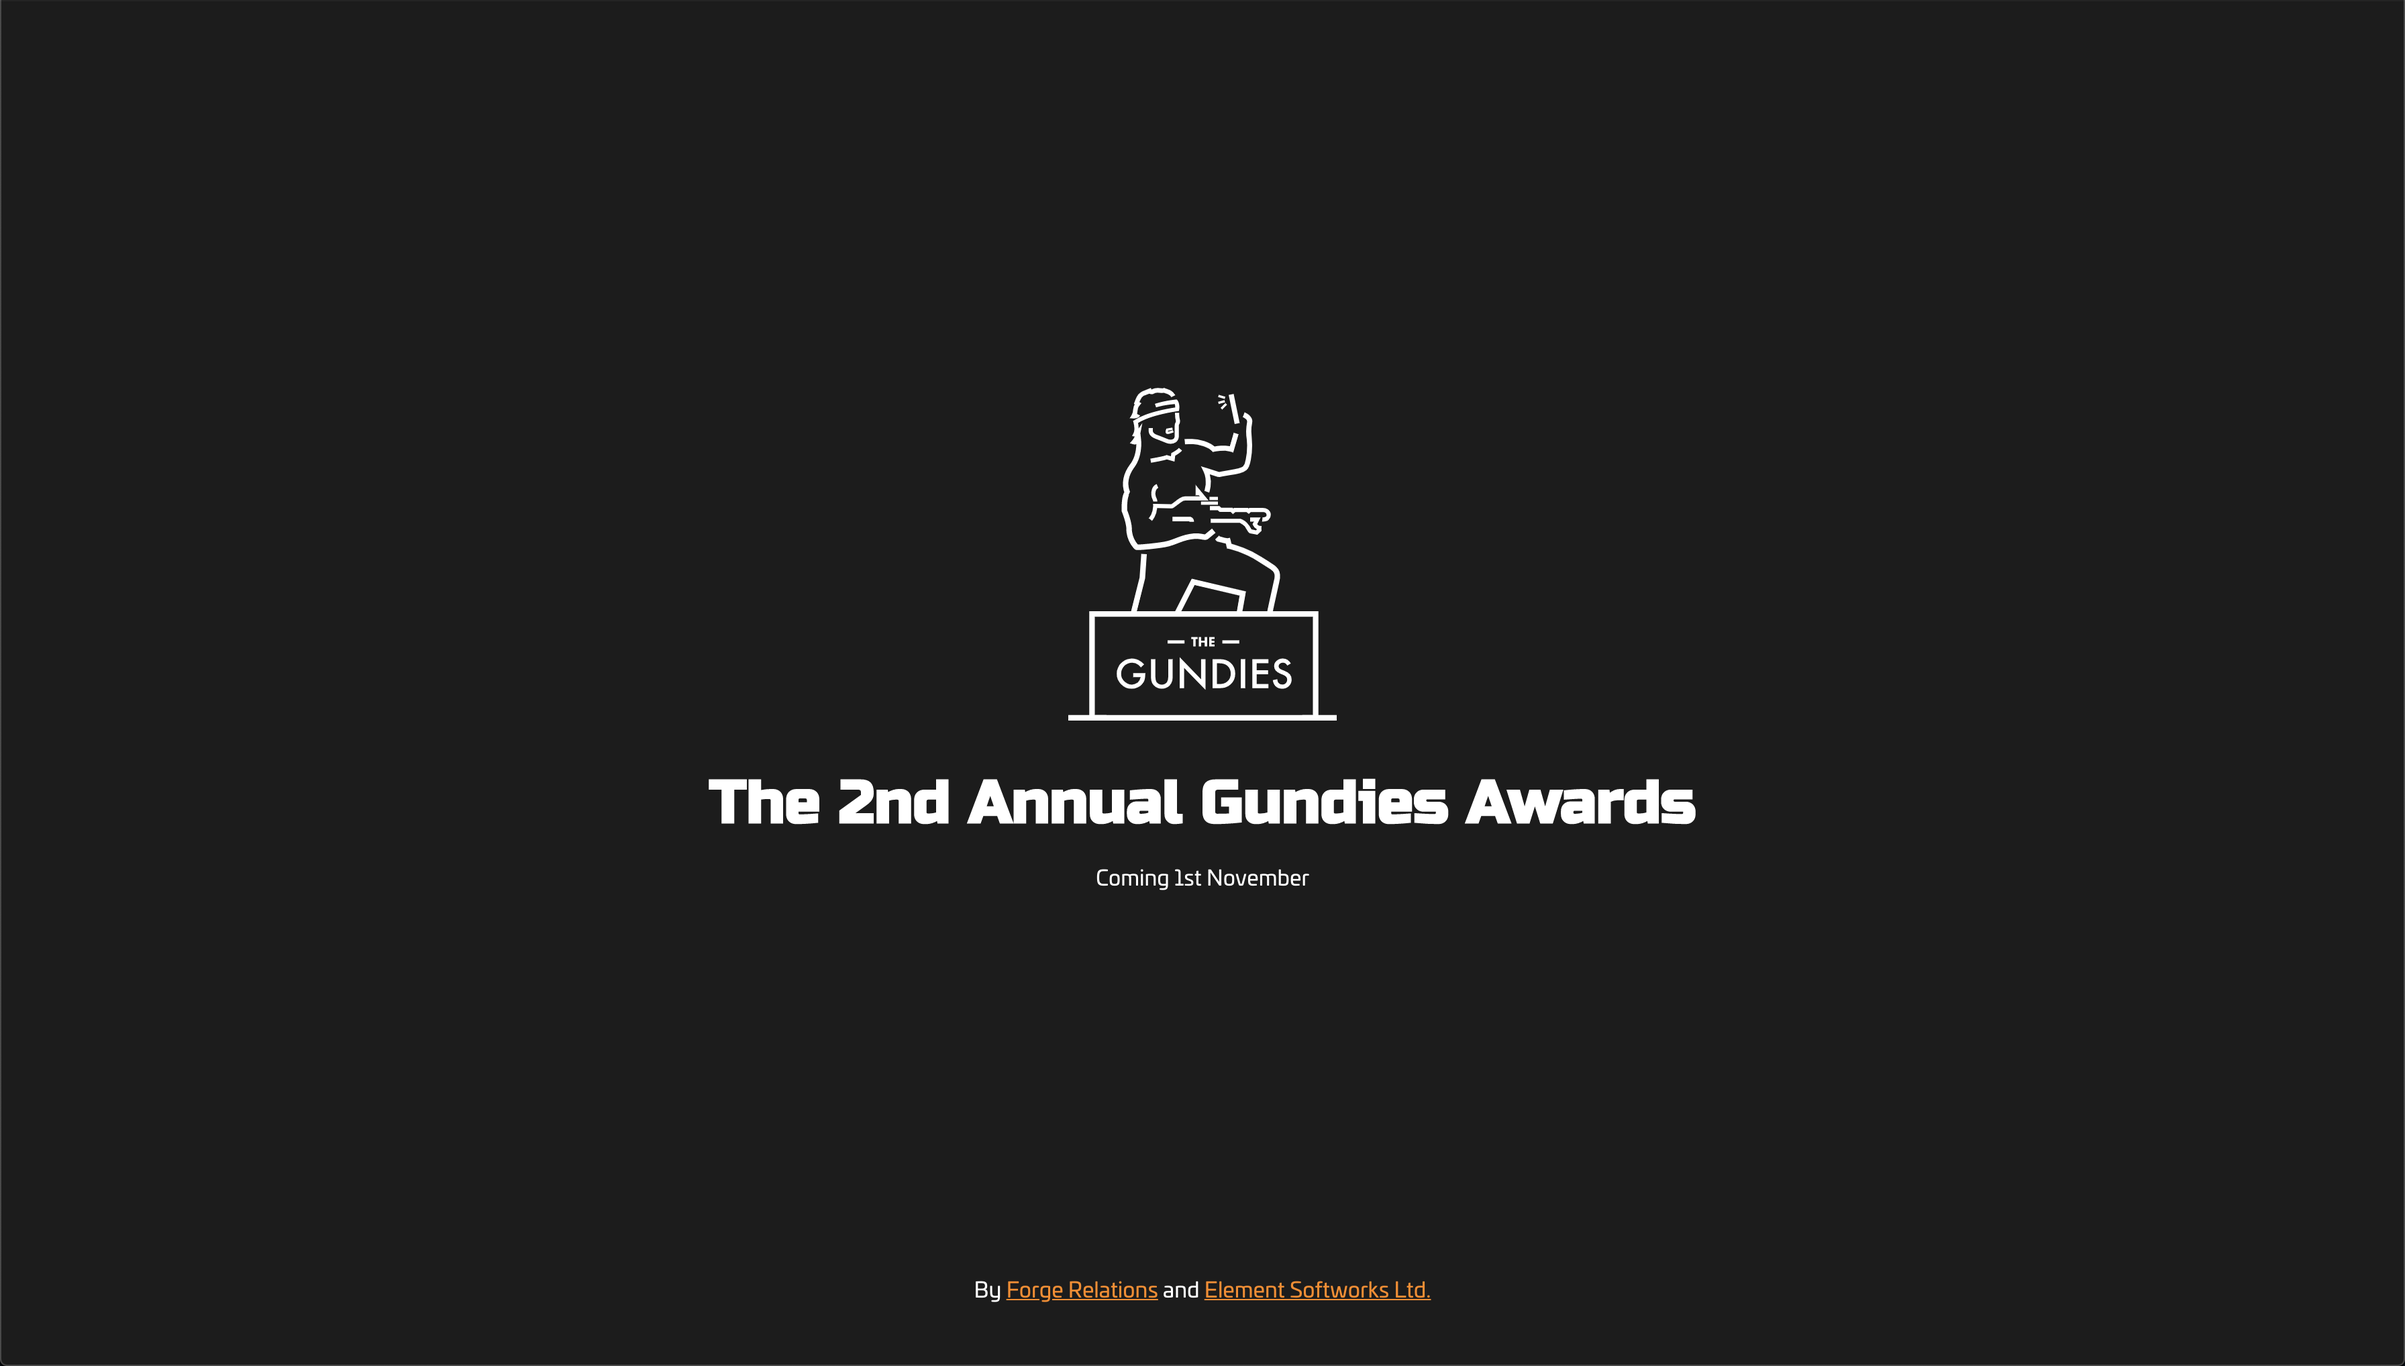
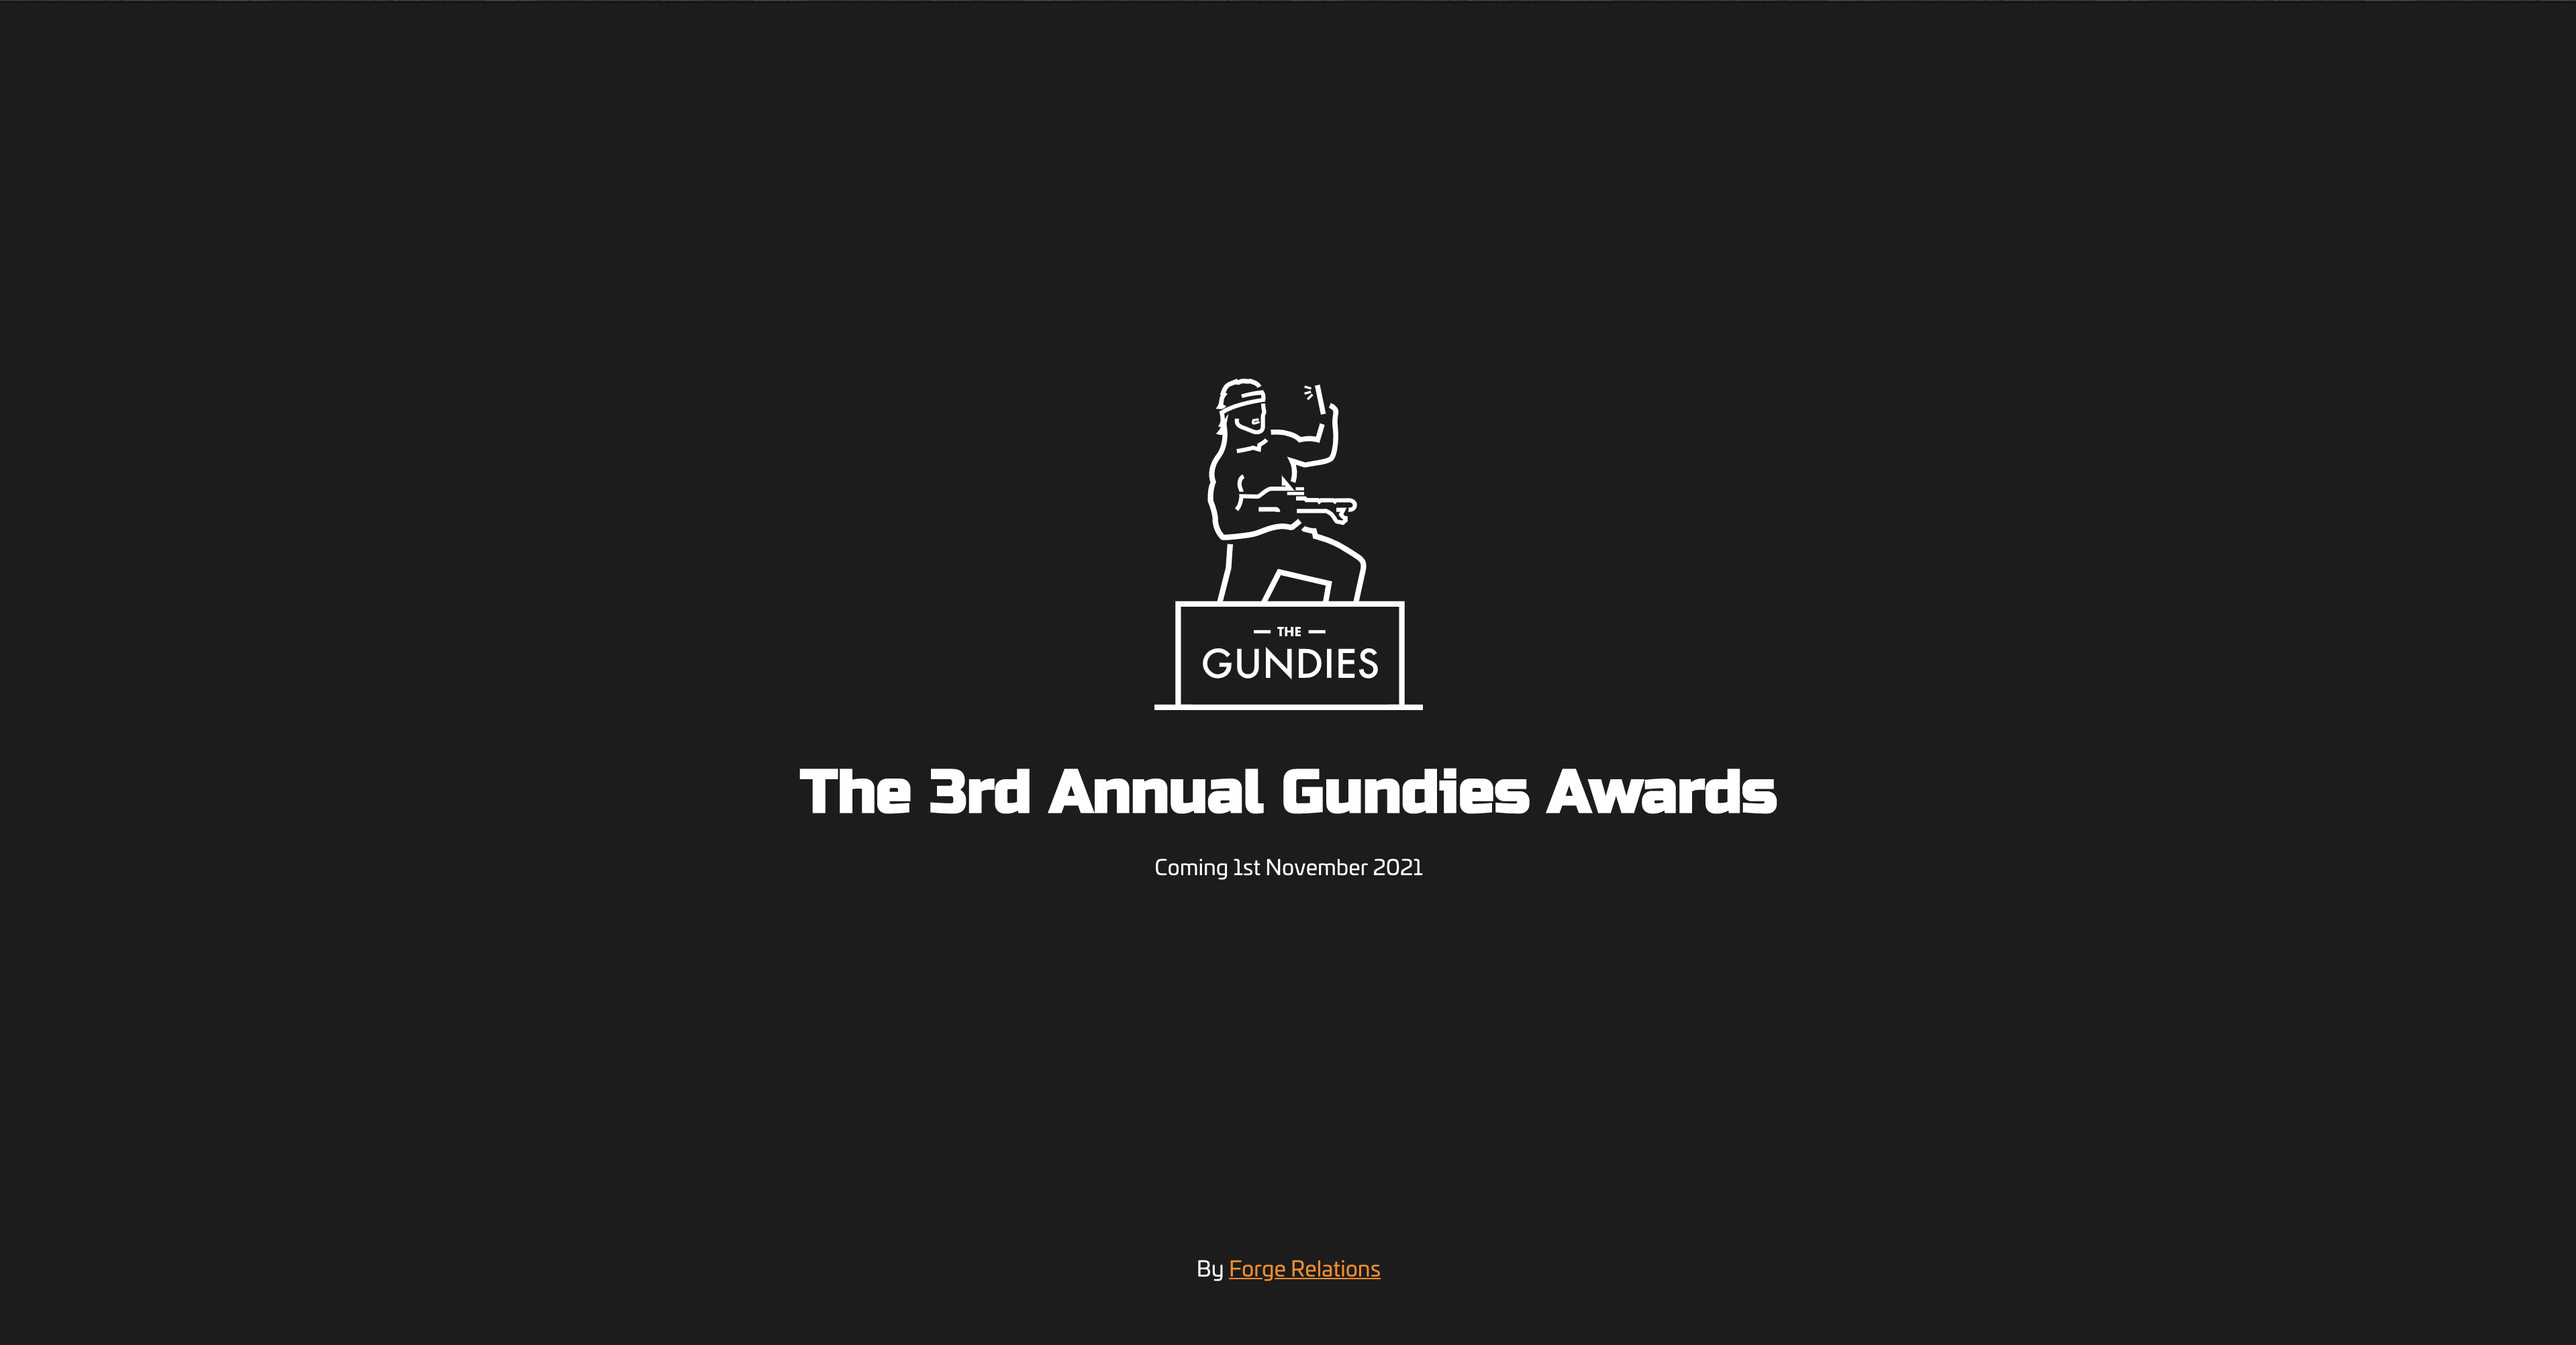
GD-385 Updated SEO preview image

diff --git a/src/pages/index.js b/src/pages/index.js
@@ -14,7 +14,7 @@ const Home = () => {
                         <div className={styles.offlineLogo}>
                             <Logo />
                         </div>
-                        <h1>The 3nd Annual Gundies Awards</h1>
+                        <h1>The 3rd Annual Gundies Awards</h1>
                         <p>Coming 1st November 2021</p>
                     </div>
                 </div>
